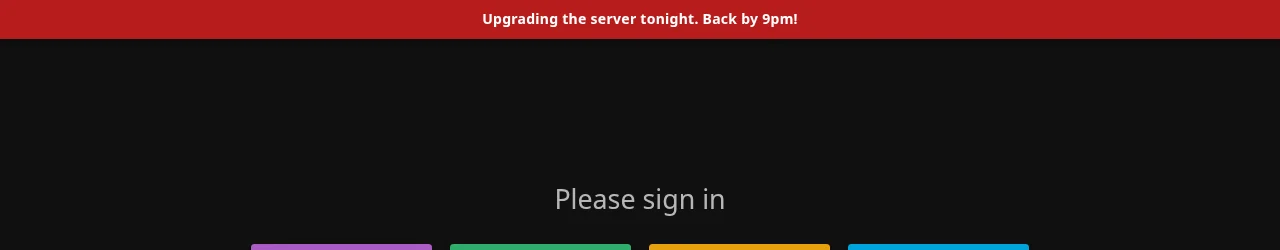
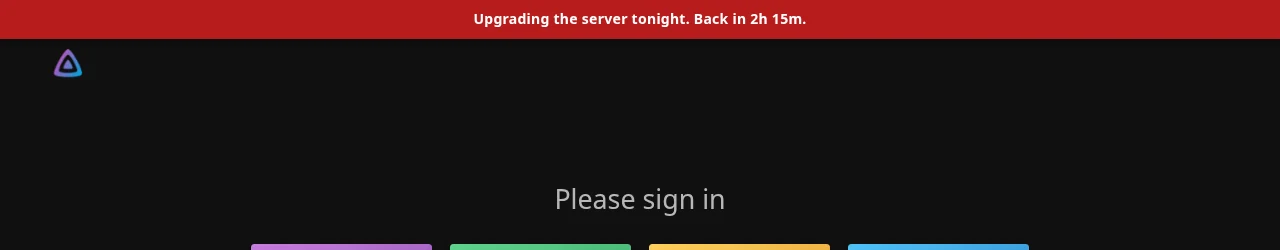
docs(readme): refresh every screenshot and recording with the new profile pictures
Re-shoot all stills and re-record all animations on current main so the header, Activity, Active Streams and login screens all show the same avatars. The maintenance banner now shows its countdown, and the stills no longer catch the recording cursor.

diff --git a/README.md b/README.md
@@ -244,7 +244,7 @@ Everything is configured from **Dashboard → Plugins → Jellyfin Enhanced**, w
 - **Documented CSS hooks** to restyle any part of the plugin
 - **Translated into 30+ languages** by the community
 
-<p align="center"><img src="docs/images/readme/maintenance-mode.webp" alt="Maintenance banner on the Jellyfin login page" width="100%"></p>
+<p align="center"><img src="docs/images/readme/maintenance-mode.webp" alt="Maintenance banner with a countdown on the Jellyfin login page" width="100%"></p>
 
 <sub>[Admin & other features →](https://n00bcodr.github.io/Jellyfin-Enhanced/other/other-features/)</sub>
 
